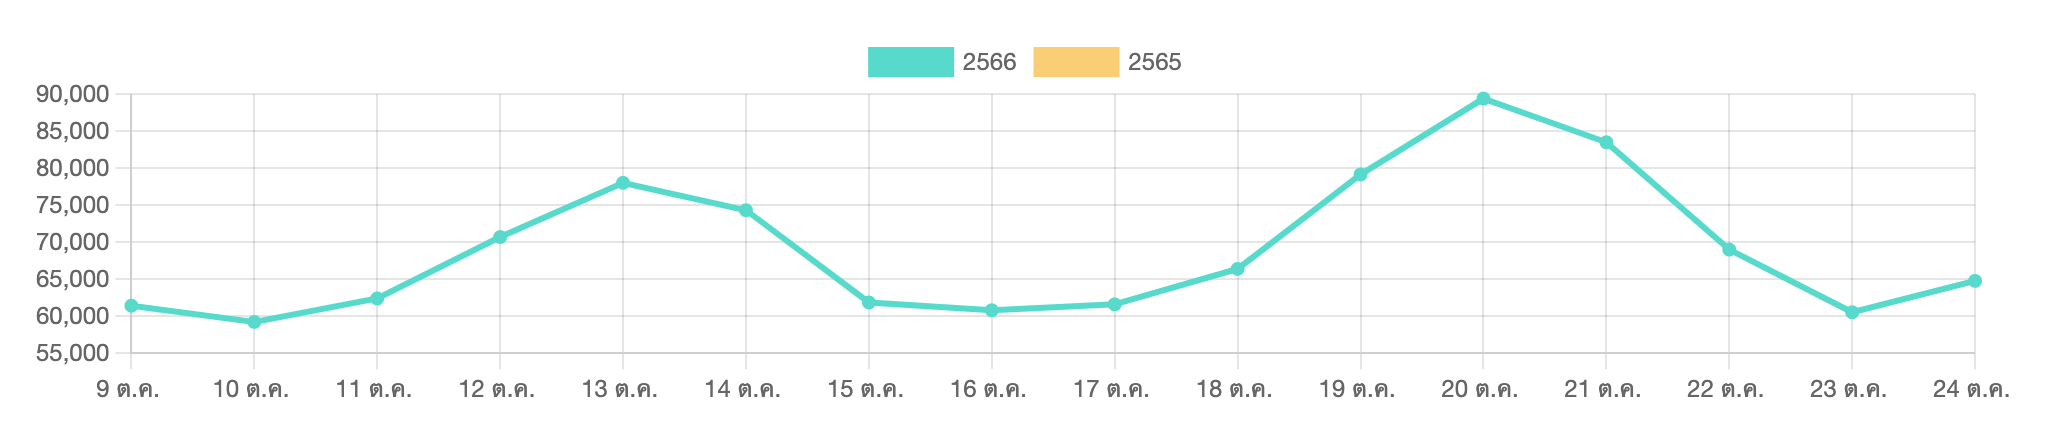
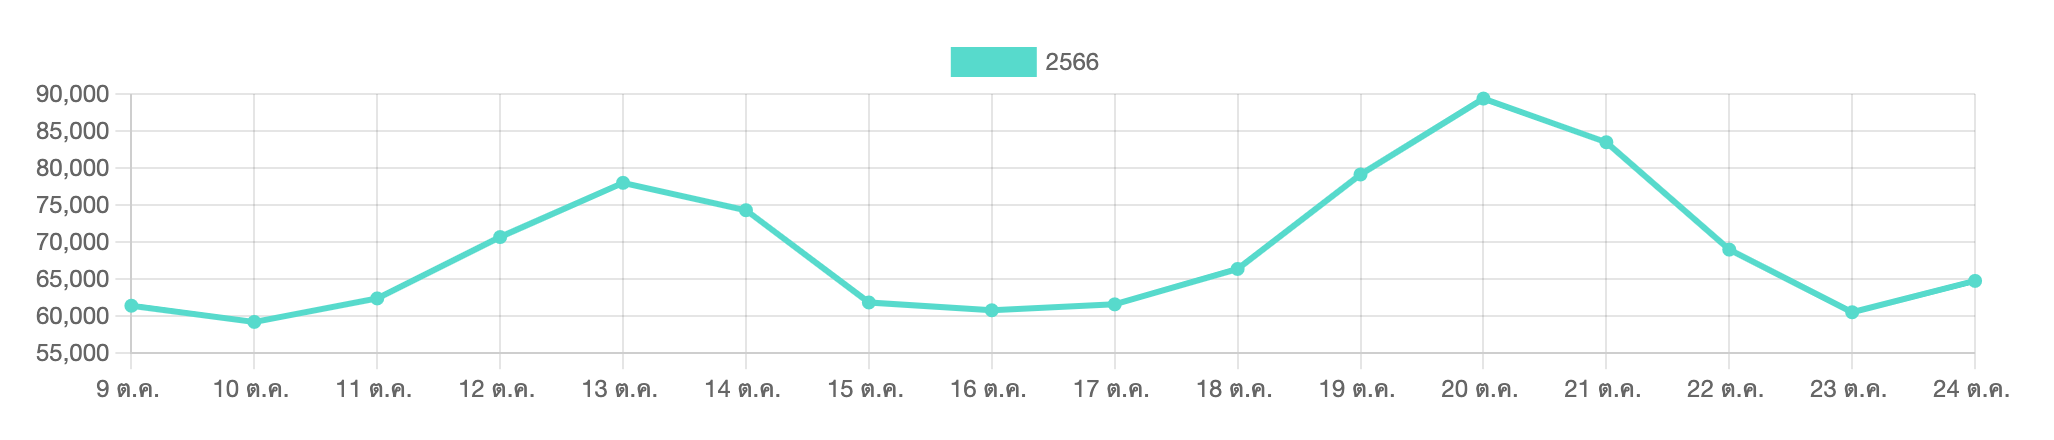
hide old year. chart

Changed region(s): [[0.4051, 0.0886, 0.592, 0.1773]]

diff --git a/modules/Main/Views/daily.php b/modules/Main/Views/daily.php
@@ -1006,13 +1006,14 @@ for ($i=1; $i <= 12; $i++) {
 					data: chart_current,
 					borderColor: '#57DACC',
 					backgroundColor: '#57DACC',
-				},
-				{
-					label: '<?php echo date('Y') + 542 ?>',
-					data: chart_pre,
-					borderColor: '#FACE74',
-					backgroundColor: '#FACE74',
 				}
+				// ,
+				// {
+				// 	label: '<?php echo date('Y') + 542 ?>',
+				// 	data: chart_pre,
+				// 	borderColor: '#FACE74',
+				// 	backgroundColor: '#FACE74',
+				// }
 			]
 		};
 		const chart_main = new Chart(ctx, {
@@ -1040,13 +1041,14 @@ for ($i=1; $i <= 12; $i++) {
 					data: chart_current_year,
 					borderColor: '#57DACC',
 					backgroundColor: '#57DACC',
-				},
-				{
-					label: '<?php echo date('Y') + 542 ?>',
-					data: chart_pre_year,
-					borderColor: '#FACE74',
-					backgroundColor: '#FACE74',
 				}
+				// ,
+				// {
+				// 	label: '<?php echo date('Y') + 542 ?>',
+				// 	data: chart_pre_year,
+				// 	borderColor: '#FACE74',
+				// 	backgroundColor: '#FACE74',
+				// }
 			]
 		};
 		const chart_main_year = new Chart(ctx2, {

diff --git a/modules/Main/Controllers/Main.php b/modules/Main/Controllers/Main.php
@@ -453,6 +453,7 @@ class Main extends BaseController
 		$data = base64_decode($img);
 		// $file = UPLOAD_DIR . $_POST['imgName'] . '.png';
 		$file = $uploadfile . $_POST['imgName'] . '.png';
+		// @unlike($file);
 		$success = file_put_contents($file, $data);
 
 		// echo $file.'<br>';

diff --git a/modules/Report/Views/nation_compare.php b/modules/Report/Views/nation_compare.php
@@ -3,7 +3,8 @@
 <!-- content -->
 <?php $this->section('content') ?>
 <?php $user_menu = $session->get('user_menu'); ?>
-
+<?php ini_set('memory_limit', '1024M'); 
+	  //ini_set('memory_limit', '-1');?>
 <style>
 	@media screen and (max-width: 600px) {
 		.table-responsive {
